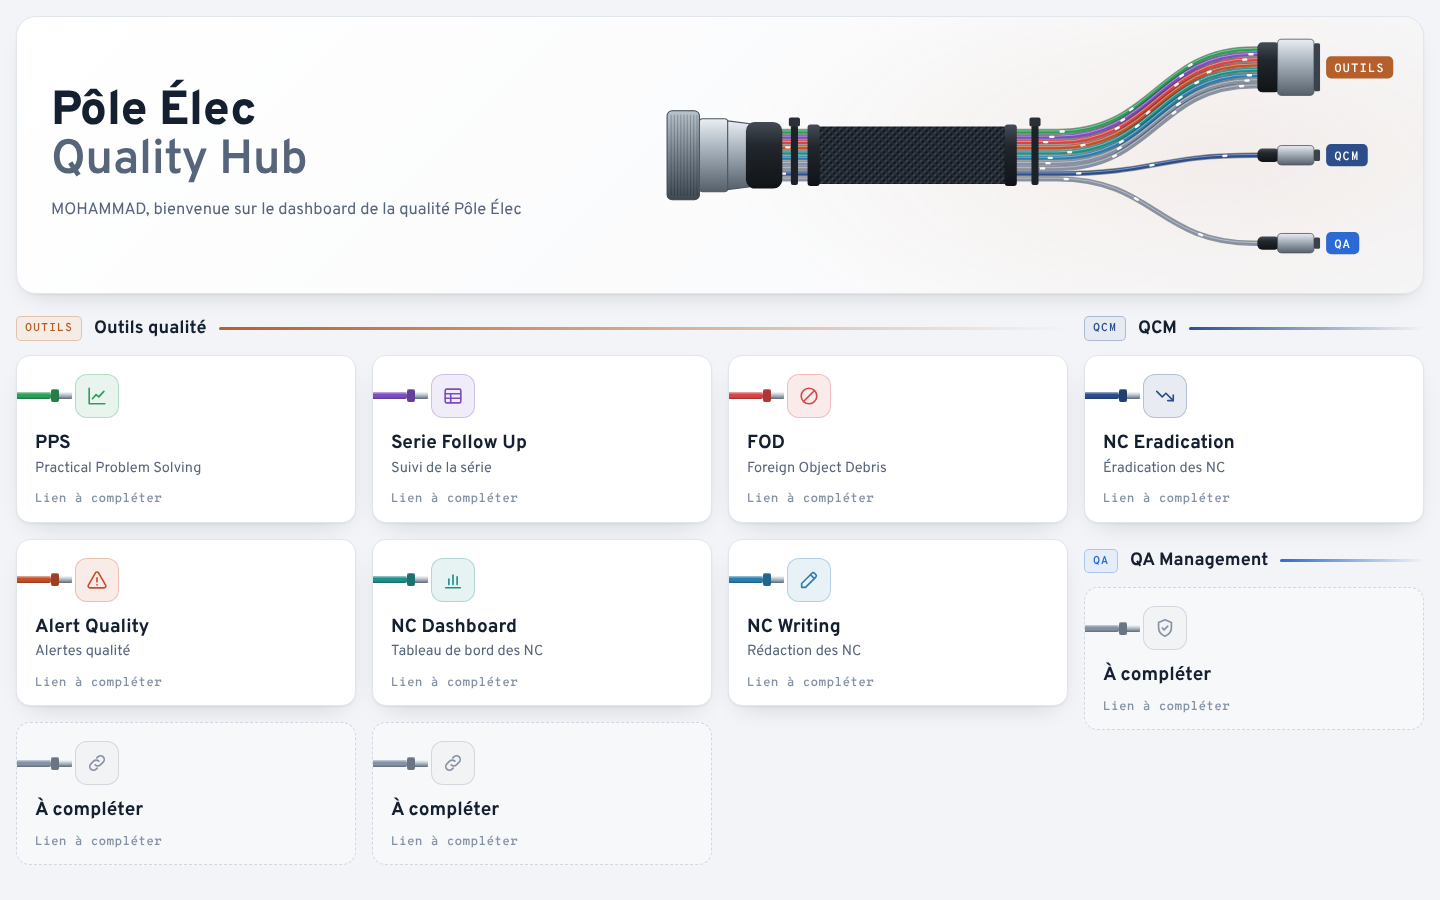
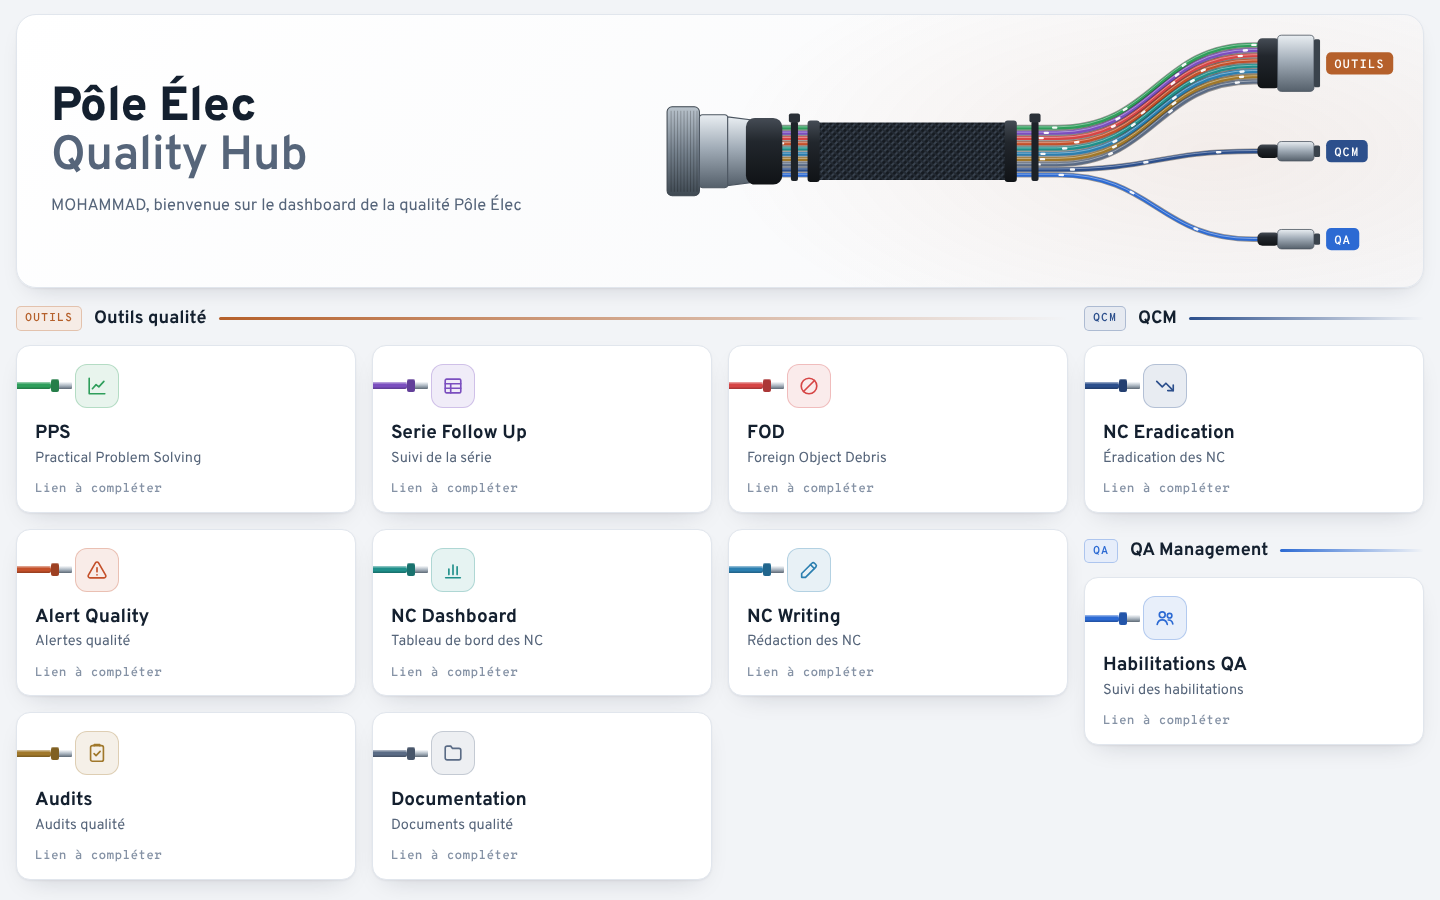
Hub: placeholder names for the unknown tiles, page fits one screen again
Third-row tiles and the QA Management card get placeholder names
(Audits, Documentation, Habilitations QA), marked in hub_config.js.

Claude-Session: https://claude.ai/code/session_01GaHWbcUqq7atPXLK7Y4FBL

diff --git a/09_pole_elec_hub/hub/hub_config.js b/09_pole_elec_hub/hub/hub_config.js
@@ -34,9 +34,9 @@ window.HUB_CONFIG = {
         { name: "Alert Quality",   description: "Alertes qualité",           icon: "alert",    color: "#c4502a", link: "A_COMPLETER" },
         { name: "NC Dashboard",    description: "Tableau de bord des NC",    icon: "bars",     color: "#1f8f8a", link: "A_COMPLETER" },
         { name: "NC Writing",      description: "Rédaction des NC",          icon: "pen",      color: "#2b7fb0", link: "A_COMPLETER" },
-        // third row of the current hub (hidden behind the scroll): name, icon and link to fill in
-        { name: "À compléter",     description: "",                          icon: "link",     color: "#8592a5", link: "A_COMPLETER" },
-        { name: "À compléter",     description: "",                          icon: "link",     color: "#8592a5", link: "A_COMPLETER" }
+        // third row of the current hub (hidden behind its scroll): PLACEHOLDER names, replace with the real ones
+        { name: "Audits",          description: "Audits qualité",            icon: "check",    color: "#a0782b", link: "A_COMPLETER" },
+        { name: "Documentation",   description: "Documents qualité",         icon: "folder",   color: "#5a6b85", link: "A_COMPLETER" }
       ]
     },
     {
@@ -48,8 +48,8 @@ window.HUB_CONFIG = {
     {
       name: "QA Management", code: "QA", color: "#2c6ad3",
       tools: [
-        // one line per tile of the "QA Managment" tab of the current hub
-        { name: "À compléter",     description: "",                          icon: "shield",   color: "#8592a5", link: "A_COMPLETER" }
+        // one line per tile of the "QA Managment" tab of the current hub: PLACEHOLDER name, replace with the real one
+        { name: "Habilitations QA", description: "Suivi des habilitations",  icon: "people",   color: "#2c6ad3", link: "A_COMPLETER" }
       ]
     }
   ]

diff --git a/09_pole_elec_hub/hub/pole_elec_hub.html b/09_pole_elec_hub/hub/pole_elec_hub.html
@@ -26,9 +26,9 @@
 *{box-sizing:border-box}
 html,body{margin:0}
 body{background:var(--bg);color:var(--text);font:15px/1.5 "Overpass","Segoe UI",system-ui,sans-serif;-webkit-font-smoothing:antialiased}
-.wrap{max-width:1480px;margin:0 auto;padding-block:16px 24px;padding-left:max(16px,env(safe-area-inset-left,0px));padding-right:max(16px,env(safe-area-inset-right,0px));display:flex;flex-direction:column;gap:22px}
+.wrap{max-width:1480px;margin:0 auto;padding-block:14px 16px;padding-left:max(16px,env(safe-area-inset-left,0px));padding-right:max(16px,env(safe-area-inset-right,0px));display:flex;flex-direction:column;gap:18px}
 
-.hero{display:grid;grid-template-columns:minmax(0,1fr) minmax(0,1.25fr);gap:12px 28px;align-items:center;padding:22px 34px;border-radius:20px;
+.hero{display:grid;grid-template-columns:minmax(0,1fr) minmax(0,1.25fr);gap:12px 28px;align-items:center;padding:20px 34px;border-radius:20px;
   background:radial-gradient(700px 300px at 85% 50%,color-mix(in srgb,var(--copper) 8%,transparent),transparent 70%),linear-gradient(135deg,var(--surface),var(--surface-2));
   border:1px solid var(--line);box-shadow:var(--shadow);overflow:hidden}
 h1{margin:0 0 12px;font:800 48px/1.02 "Overpass","Segoe UI",sans-serif;letter-spacing:-.01em;text-wrap:balance}

diff --git a/09_pole_elec_hub/README.md b/09_pole_elec_hub/README.md
@@ -10,7 +10,7 @@ The page to use is `hub/pole_elec_hub.html` (preview: `screenshots/hub_final.png
 - names, short descriptions, icons and colours are in the same file;
 - keep the two files in the same folder, save, refresh the page.
 
-Content is what the current hub shows, no more: PPS, Serie Follow Up, FOD, Alert Quality, NC Dashboard, NC Writing, the two tiles of its third row (names to fill in), QCM with NC Eradication, and QA Management (content to fill in). The two tabs of the current hub become two small groups on the right, so everything is visible at once on a 1440 × 900 screen.
+Content is what the current hub shows, no more: PPS, Serie Follow Up, FOD, Alert Quality, NC Dashboard, NC Writing, the two tiles of its third row, QCM with NC Eradication, and QA Management. The third-row tiles and the QA Management card carry placeholder names for now (Audits, Documentation, Habilitations QA), marked as such in the config. The two tabs of the current hub become two small groups on the right, so everything is visible at once on a 1440 × 900 screen.
 
 ## The five templates (design round of 20 Oct)
 
@@ -38,8 +38,8 @@ All five work on a wide screen, a laptop and a phone, can be used with the keybo
 ## Still needed
 
 - The Skywise link of each tool (Mohammad pastes them in `hub/hub_config.js`).
-- Name and icon of the two tiles on the third row of the current hub (hidden behind its scroll).
-- What the "QA Managment" tab of the current hub contains (one line per tile in the config).
+- The real names of the two tiles on the third row of the current hub (hidden behind its scroll); "Audits" and "Documentation" are placeholders.
+- What the "QA Managment" tab of the current hub contains; "Habilitations QA" is a placeholder (one line per tile in the config).
 
 ## Moving the chosen one into Slate (to check with whoever builds the Slate app)
 

diff --git a/HANDOVER.md b/HANDOVER.md
@@ -33,7 +33,7 @@ Read sections 1, 2 and 9 first. Everything else is reference. Every number below
 | CNQ reconciliation (predecessor files vs official method M1888 / UG2600252) | Mentioned by Mohammad, **not started here** | — |
 | CNQ model | Version cnq-2026.10.19: 7 rule changes from SAP rework orders and MES aléas, approved 19 Oct | `cnq_handoever/`, `CNQ_CHANGES.md` |
 | Work orders, MES aléas, 2025 NCs (uploaded 19 Oct) | Analysed; investigation checklist for Mohammad, **checks pending** | `05_outputs/CNQ_investigation_checklist.html`, `07_scripts/wo_disruption/` |
-| New Pôle Élec Quality Hub (Slate home page) | Template 5 chosen 20 Oct. Page `hub/pole_elec_hub.html`, links in `hub/hub_config.js` (placeholders he fills). Content = current hub only; **names of the 2 hidden third-row tiles and the QA Management tab content still needed** | `09_pole_elec_hub/` |
+| New Pôle Élec Quality Hub (Slate home page) | Template 5 chosen 20 Oct. Page `hub/pole_elec_hub.html`, links in `hub/hub_config.js` (placeholders he fills). Content = current hub only; the 2 hidden third-row tiles and the QA Management card have **placeholder names** (Audits, Documentation, Habilitations QA) until he gives the real ones | `09_pole_elec_hub/` |
 
 ---
 
